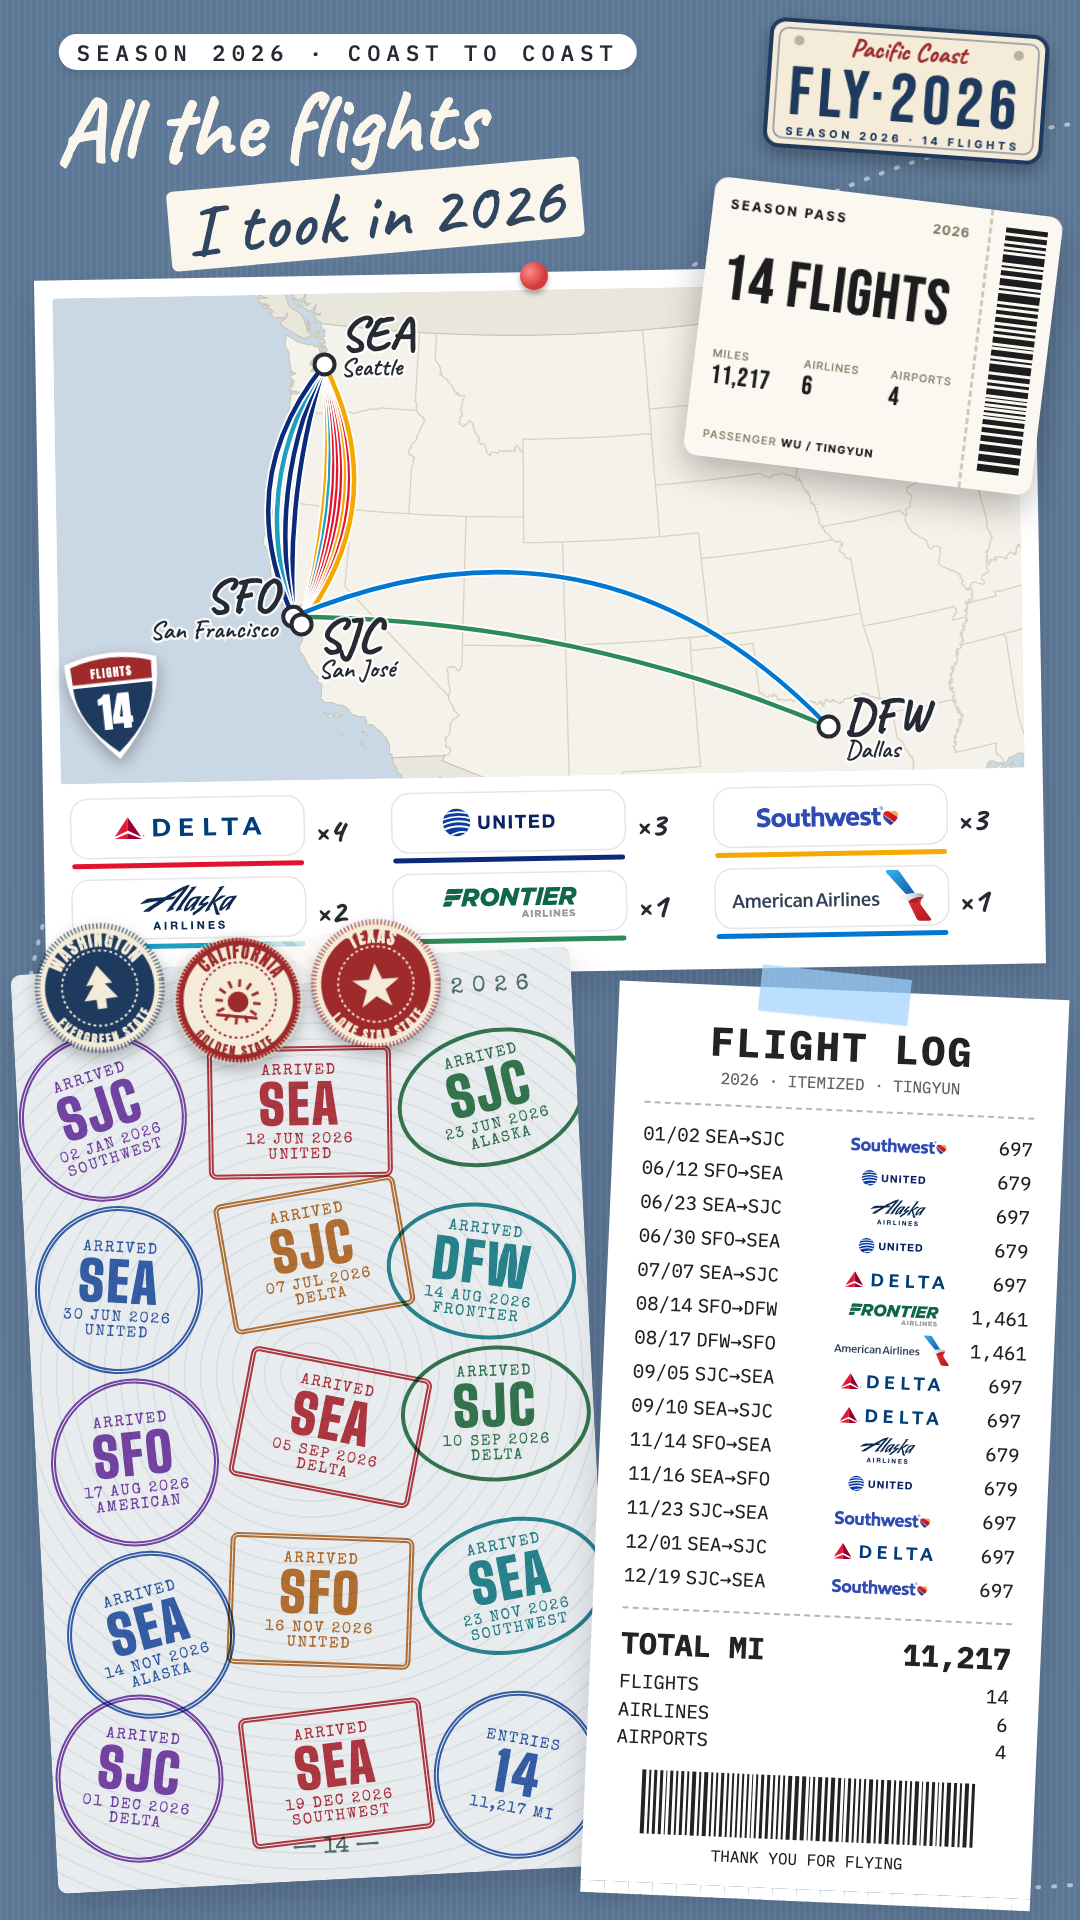
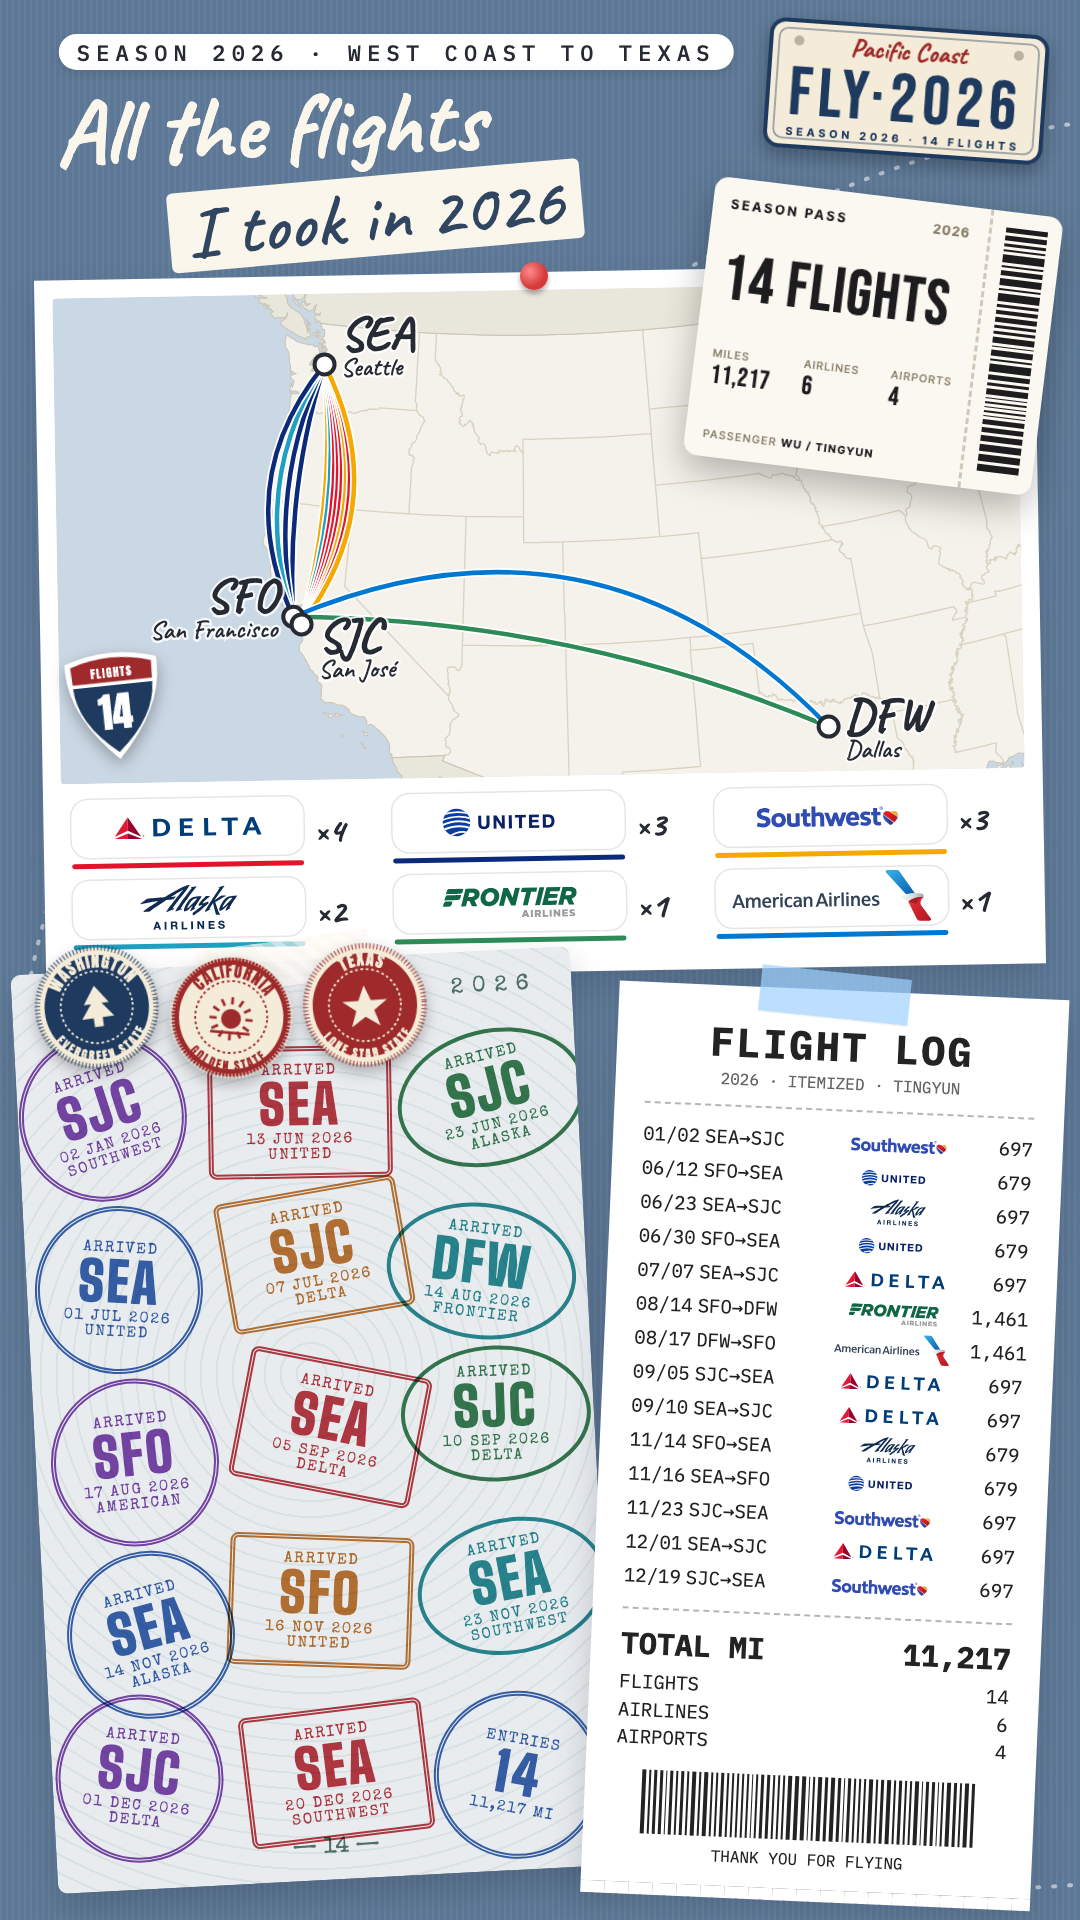
Final check: correct red-eye arrival dates, accurate tagline, patch spacing

diff --git a/pictures/cinema.html b/pictures/cinema.html
@@ -160,7 +160,7 @@ document.getElementById("pg").insertAdjacentHTML("beforeend", `
     const ink = it.total ? "#1f4fa3" : inks[k % inks.length], shape = it.total ? 0 : k % 3;
     const box = shape === 0 ? "width:168px;height:168px;border-radius:50%;border:5px double" : shape === 1 ? "width:184px;height:132px;border-radius:8px;border:5px double" : "width:190px;height:136px;border-radius:50%;border:4px solid";
     const body = it.total ? `<small>ENTRIES</small><b>${fl.length}</b><small>${nf(TOTAL)} MI</small>`
-      : `<small>ARRIVED</small><b>${it.f.to}</b><small>${pad(it.f.d)} ${MON[it.f.m]} 2026</small><small>${NAME[it.f.air].toUpperCase()}</small>`;
+      : `<small>ARRIVED</small><b>${it.f.to}</b><small>${({1:"13 JUN", 3:"01 JUL", 13:"20 DEC"})[it.f.i] || pad(it.f.d) + " " + MON[it.f.m]} 2026</small><small>${NAME[it.f.air].toUpperCase()}</small>`;
     return `<div class="st" style="left:${x}px;top:${y}px;${box} ${ink};color:${ink};transform:rotate(${rot}deg)"><div>${body}</div></div>`;
   }).join(""));
 })();
@@ -301,13 +301,13 @@ if (FX.has("u")) {
       <svg viewBox="0 0 120 130" style="width:100%"><path d="M8 14 Q60 -4 112 14 Q116 70 60 126 Q4 70 8 14 Z" fill="#fff"/><path d="M14 18 Q60 3 106 18 L105 38 H15 Z" fill="${RED}"/><path d="M15 42 H105 Q104 82 60 118 Q16 82 15 42 Z" fill="${NAVY}"/>
         <text x="60" y="33" text-anchor="middle" font-family="Anton" font-size="13" letter-spacing="1.5" fill="#fff">FLIGHTS</text>
         <text x="60" y="92" text-anchor="middle" font-family="Anton" font-size="46" fill="#fff">14</text></svg></div>
-    <div style="position:absolute;top:922px;left:34px;width:132px;transform:rotate(-8deg);z-index:9">${patch("wa", NAVY, CREAM, "WASHINGTON", "EVERGREEN STATE", tree)}</div>
-    <div style="position:absolute;top:934px;left:172px;width:132px;transform:rotate(5deg);z-index:9">${patch("ca", CREAM, RED, "CALIFORNIA", "GOLDEN STATE", sun)}</div>
-    <div style="position:absolute;top:918px;left:310px;width:132px;transform:rotate(-4deg);z-index:9">${patch("tx", RED, CREAM, "TEXAS", "LONE STAR STATE", star)}</div>`);
+    <div style="position:absolute;top:944px;left:34px;width:126px;transform:rotate(-8deg);z-index:9">${patch("wa", NAVY, CREAM, "WASHINGTON", "EVERGREEN STATE", tree)}</div>
+    <div style="position:absolute;top:954px;left:168px;width:126px;transform:rotate(5deg);z-index:9">${patch("ca", CREAM, RED, "CALIFORNIA", "GOLDEN STATE", sun)}</div>
+    <div style="position:absolute;top:942px;left:302px;width:126px;transform:rotate(-4deg);z-index:9">${patch("tx", RED, CREAM, "TEXAS", "LONE STAR STATE", star)}</div>`);
   // the plate takes the top-right corner, so the season-pass ticket moves down a little
   const tk = [...document.querySelectorAll("#pg > div")].find(d => /SEASON PASS/.test(d.textContent) && d.style.top === "150px");
   if (tk) { tk.style.top = "196px"; tk.style.left = "700px"; }
-  const eyeU = document.querySelector("h1 small"); if (eyeU) eyeU.textContent = "Season 2026 · Coast to coast";
+  const eyeU = document.querySelector("h1 small"); if (eyeU) eyeU.textContent = "Season 2026 · West Coast to Texas";
 }
 
 /* ---------- mirrored layout: receipt on the left, passport on the right ---------- */
